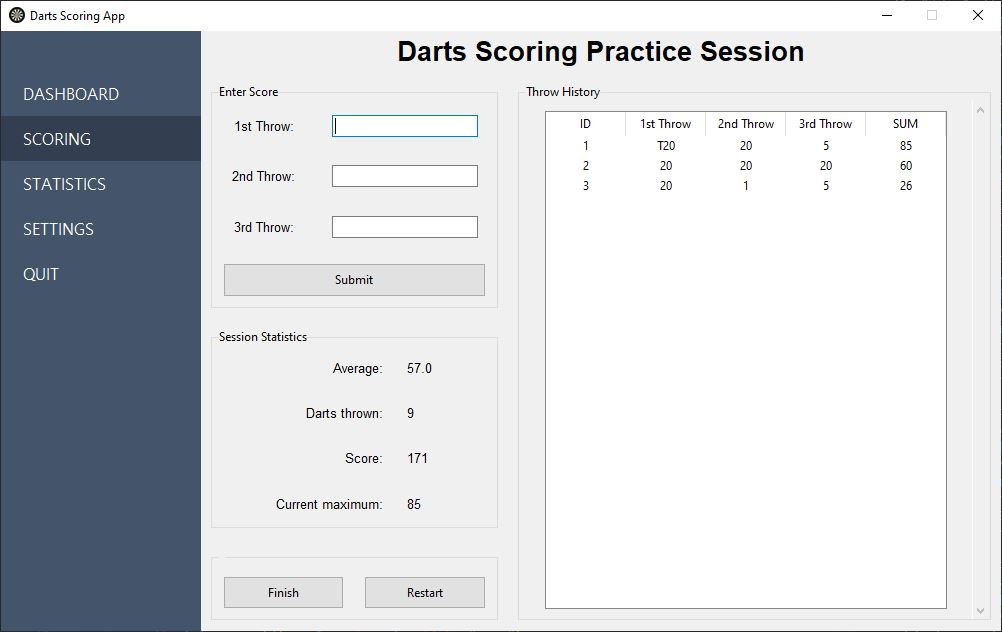
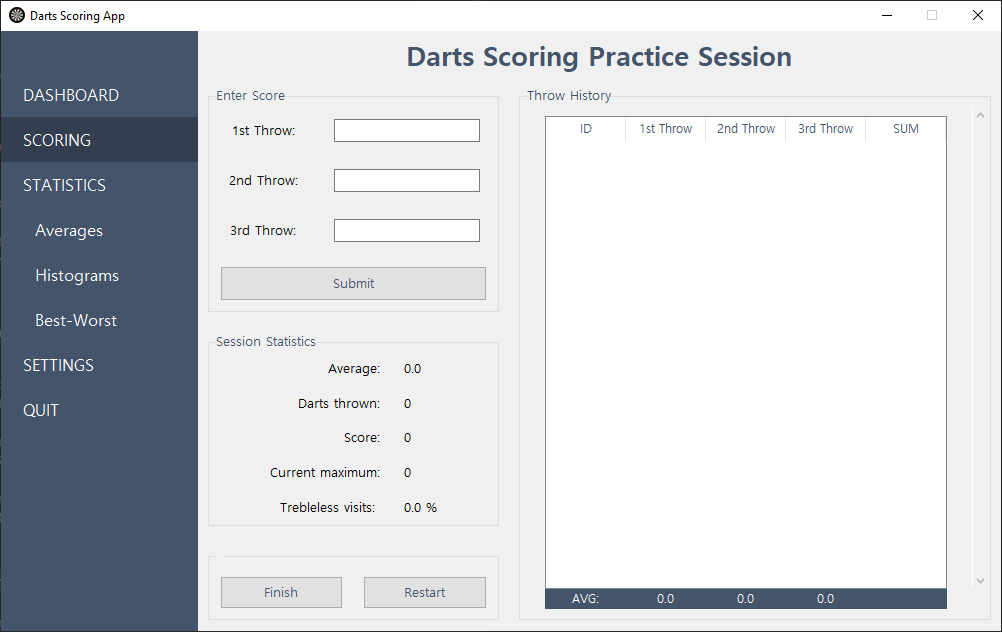
docs(readme): update readme, expand setup and usage documentation
- update README.md with more details regarding the app, its setup and usage
- replace the embedded screenshots with current ones

diff --git a/README.md b/README.md
@@ -1,15 +1,84 @@
 # DartsApp
 
-Darts scoring application that enables tracking each throw individually and evaluating the scoring performance using detailed statistics and visualizations for each throw.
+DartsApp is a desktop Tkinter application for logging darts practice sessions throw by throw. Instead of storing only final scores, it keeps each visit in a local SQLite database and uses that history to show session stats, historical charts, and best or worst performance windows over time.
 
-## Motivation
-The main points that shaped the development of this application:
+## Features
 
-1. To have a database that **`stores each throw`**, not just the final score.
-2. To include **`detailed statistics`**, not only common metrics like the 3-dart-average, number of 180s etc., but also **`metrics for each dart`**,allowing users to detect faulty trends in their throw (for example, if the 3rd dart tends to achieve lower scores).
-3. To have the **`possibilty to implement all kinds of further analytics`** driven by curiosity
-4. To retain **`all data`** without being limited by any time scale (for example, data shown for the last 12 months only)
+- Record every throw of a scoring practice session.
+- Edit recorded throws directly in the throw history table.
+- View live session statistics such as average, darts thrown, max visit, and trebleless visit ratio.
+- Explore historical plots for averages, sessions played, darts thrown, 180s/171s, and trebleless visits.
+- Analyze best and worst rolling performance over a selected date range.
+- Configure automatic database backups from the settings page.
 
-## App Uers Interface
-![app_screenshot](pics/screenshot.PNG "App interface")
-![app_screenshot](pics/screenshot2.PNG "App interface")
+## Screenshots
+
+Main scoring workflow:
+
+![Scoring page](pics/screenshot.PNG "Scoring page")
+
+Statistics and analysis views:
+
+![Statistics page](pics/screenshot2.PNG "Statistics page")
+
+## Requirements
+
+- Python 3.12 or newer
+- `tkinter` available in your Python installation
+
+The third-party Python dependencies are listed in both `requirements.txt` and `pyproject.toml`.
+
+## Installation
+
+Clone the repository, then create and activate a virtual environment.
+
+```bash
+python -m venv .venv
+.venv\Scripts\activate
+```
+
+Install dependencies using either of the supported approaches:
+
+With `requirements.txt`:
+
+```bash
+pip install -r requirements.txt
+```
+
+With `pyproject.toml`:
+
+```bash
+pip install .
+```
+
+## Running the App
+
+From the project root, you can start the application directly with:
+
+```bash
+python darts_app.py
+```
+
+If you installed the project with `pip install .`, you can also use the generated launcher command:
+
+```bash
+darts-app
+```
+
+## Data and Backups
+
+- The application stores its SQLite database in `db/darts_data.db`.
+- Database tables are initialized automatically when the app starts.
+- Backup files are written to the folder configured in `config.ini`.
+- If no custom backup path is configured, the app falls back to `db/backups`.
+- Each backup file includes a timestamp in its filename.
+
+## Current Status
+
+The app already covers the core scoring, statistics, and backup workflow. Some areas are still intentionally simple, such as the dashboard page, while the analytics side is designed to grow over time.
+
+## Roadmap Ideas
+
+- Add more practice modes beyond scoring sessions.
+- Expand the dashboard with summary widgets and recent-session highlights.
+- Introduce more advanced analytics built on the stored throw-level data.
